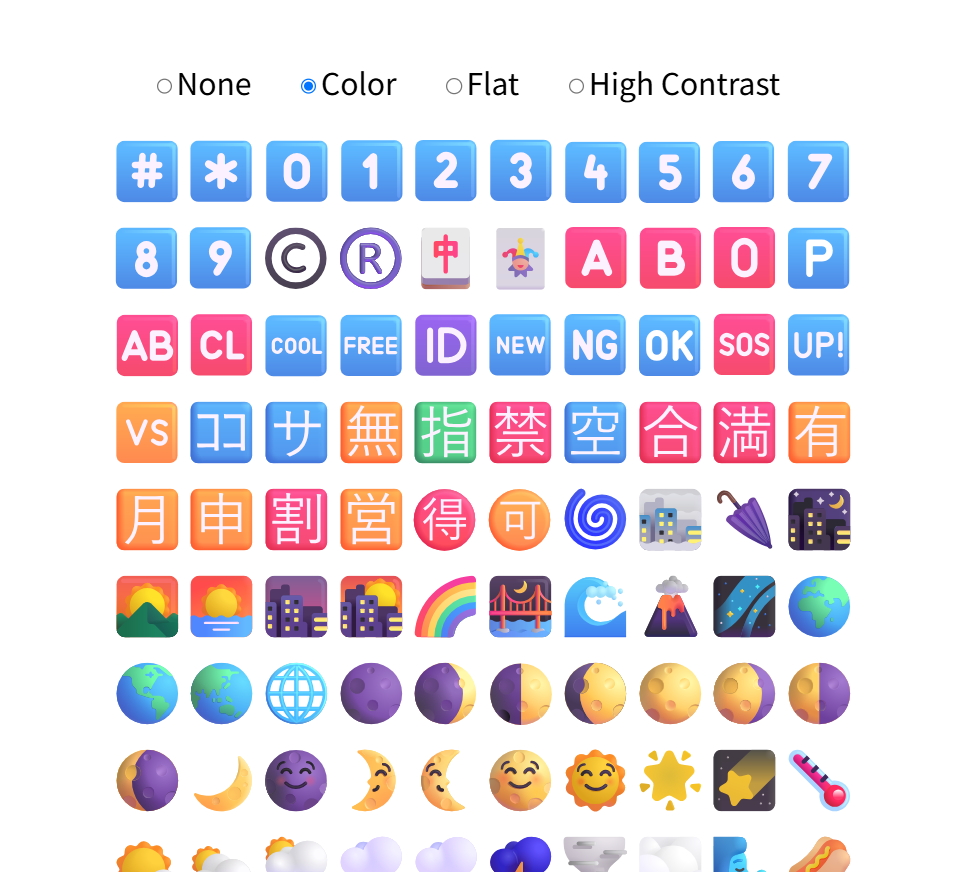
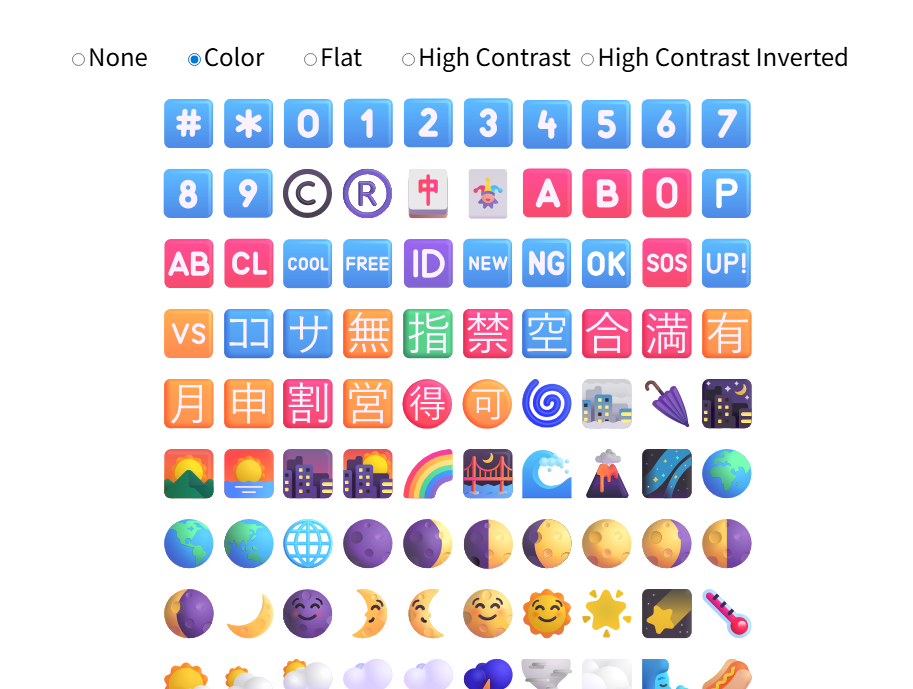
Change readme

diff --git a/sample/p5.js_usage/style.css b/sample/p5.js_usage/style.css
@@ -2,12 +2,14 @@
 @import url('https://tetunori.github.io/fluent-emoji-webfont/dist/FluentEmojiColor.css');
 @import url('https://tetunori.github.io/fluent-emoji-webfont/dist/FluentEmojiFlat.css');
 @import url('https://tetunori.github.io/fluent-emoji-webfont/dist/FluentEmojiHighContrast.css');
+@import url('https://tetunori.github.io/fluent-emoji-webfont/dist/FluentEmojiHighContrastInverted.css');
 
 /* For Debug */
 /*
 @import url('/dist/FluentEmojiColor.css');
 @import url('/dist/FluentEmojiFlat.css');
 @import url('/dist/FluentEmojiHighContrast.css');
+@import url('/dist/FluentEmojiHighContrastInverted.css');
 @import url('https://fonts.googleapis.com/css2?family=Noto+Color+Emoji&display=swap');
 */
 

diff --git a/README.md b/README.md
@@ -1,6 +1,6 @@
 # Fluent Emoji Webfont🤗
 
-Version 0.8.2  
+Version 0.8.3  
 <img src="./images/keyVisual.png" width="640px"/>  
 You can confirm from [Listing emoji sample](https://tetunori.github.io/fluent-emoji-webfont/sample/list/) or [p5.js sample](https://tetunori.github.io/fluent-emoji-webfont/sample/p5.js_usage).
 
@@ -16,6 +16,8 @@ Here you can choose one of three types of `Fluent Emoji`.
   <img src="./images/flatSample.png" width="360px"/>
 - `Fluent Emoji High Contrast`  
   <img src="./images/highContrastSample.png" width="360px"/>
+- `Fluent Emoji High Contrast Inverted`  
+  <img src="./images/highContrastInvertedSample.png" width="360px"/>
 
 Now, there are `.woff2` and `.ttf` fonts in this repository.
 
@@ -55,6 +57,12 @@ Here are the other options for `font-family`:
   font-family: 'Fluent Emoji High Contrast';
 ```
 
+```css
+@import url('https://tetunori.github.io/fluent-emoji-webfont/dist/FluentEmojiHighContrastInverted.css');
+...
+  font-family: 'Fluent Emoji High Contrast Inverted';
+```
+
 ## p5.js usage
 
 After `@import url('***.css')` in `.css` file as in the section '[General usage](#general-usage)', call `textFont()` as below:
@@ -83,6 +91,7 @@ Download following `ttf` fonts and use them as you like👍:
 - [FluentEmojiColor.ttf](https://tetunori.github.io/fluent-emoji-webfont/dist/FluentEmojiColor.ttf)
 - [FluentEmojiFlat.ttf](https://tetunori.github.io/fluent-emoji-webfont/dist/FluentEmojiFlat.ttf)
 - [FluentEmojiHighContrast.ttf](https://tetunori.github.io/fluent-emoji-webfont/dist/FluentEmojiHighContrast.ttf)
+- [FluentEmojiHighContrastInverted.ttf](https://tetunori.github.io/fluent-emoji-webfont/dist/FluentEmojiHighContrastInverted.ttf)
 
 
 # Environment
@@ -129,7 +138,7 @@ Execute `build_woff2.sh` with an `fontType` option.
 ./build_woff2.sh color
 ```
 
-- Options: `color`, `flat` and `hc` for `High Contrast`
+- Options: `color`, `flat`, `hc` for `High Contrast` and `hc-inv` for `High Contrast 
 
 Then, you can get `FluentEmoji***NNN.woff2` files and a `FluentEmoji***.css` file after long (about half an hour) time build.
 
@@ -140,7 +149,7 @@ Execute `build_ttf.sh` with an `fontType` option.
 ./build_ttf.sh color
 ```
 
-- Options: `color`, `flat` and `hc` for `High Contrast`
+- Options: `color`, `flat`, `hc` for `High Contrast` and `hc-inv` for `High Contrast Inverted`
 
 Then, you can get a `FluentEmoji***.ttf` files after long (about half an hour) time build.
 
